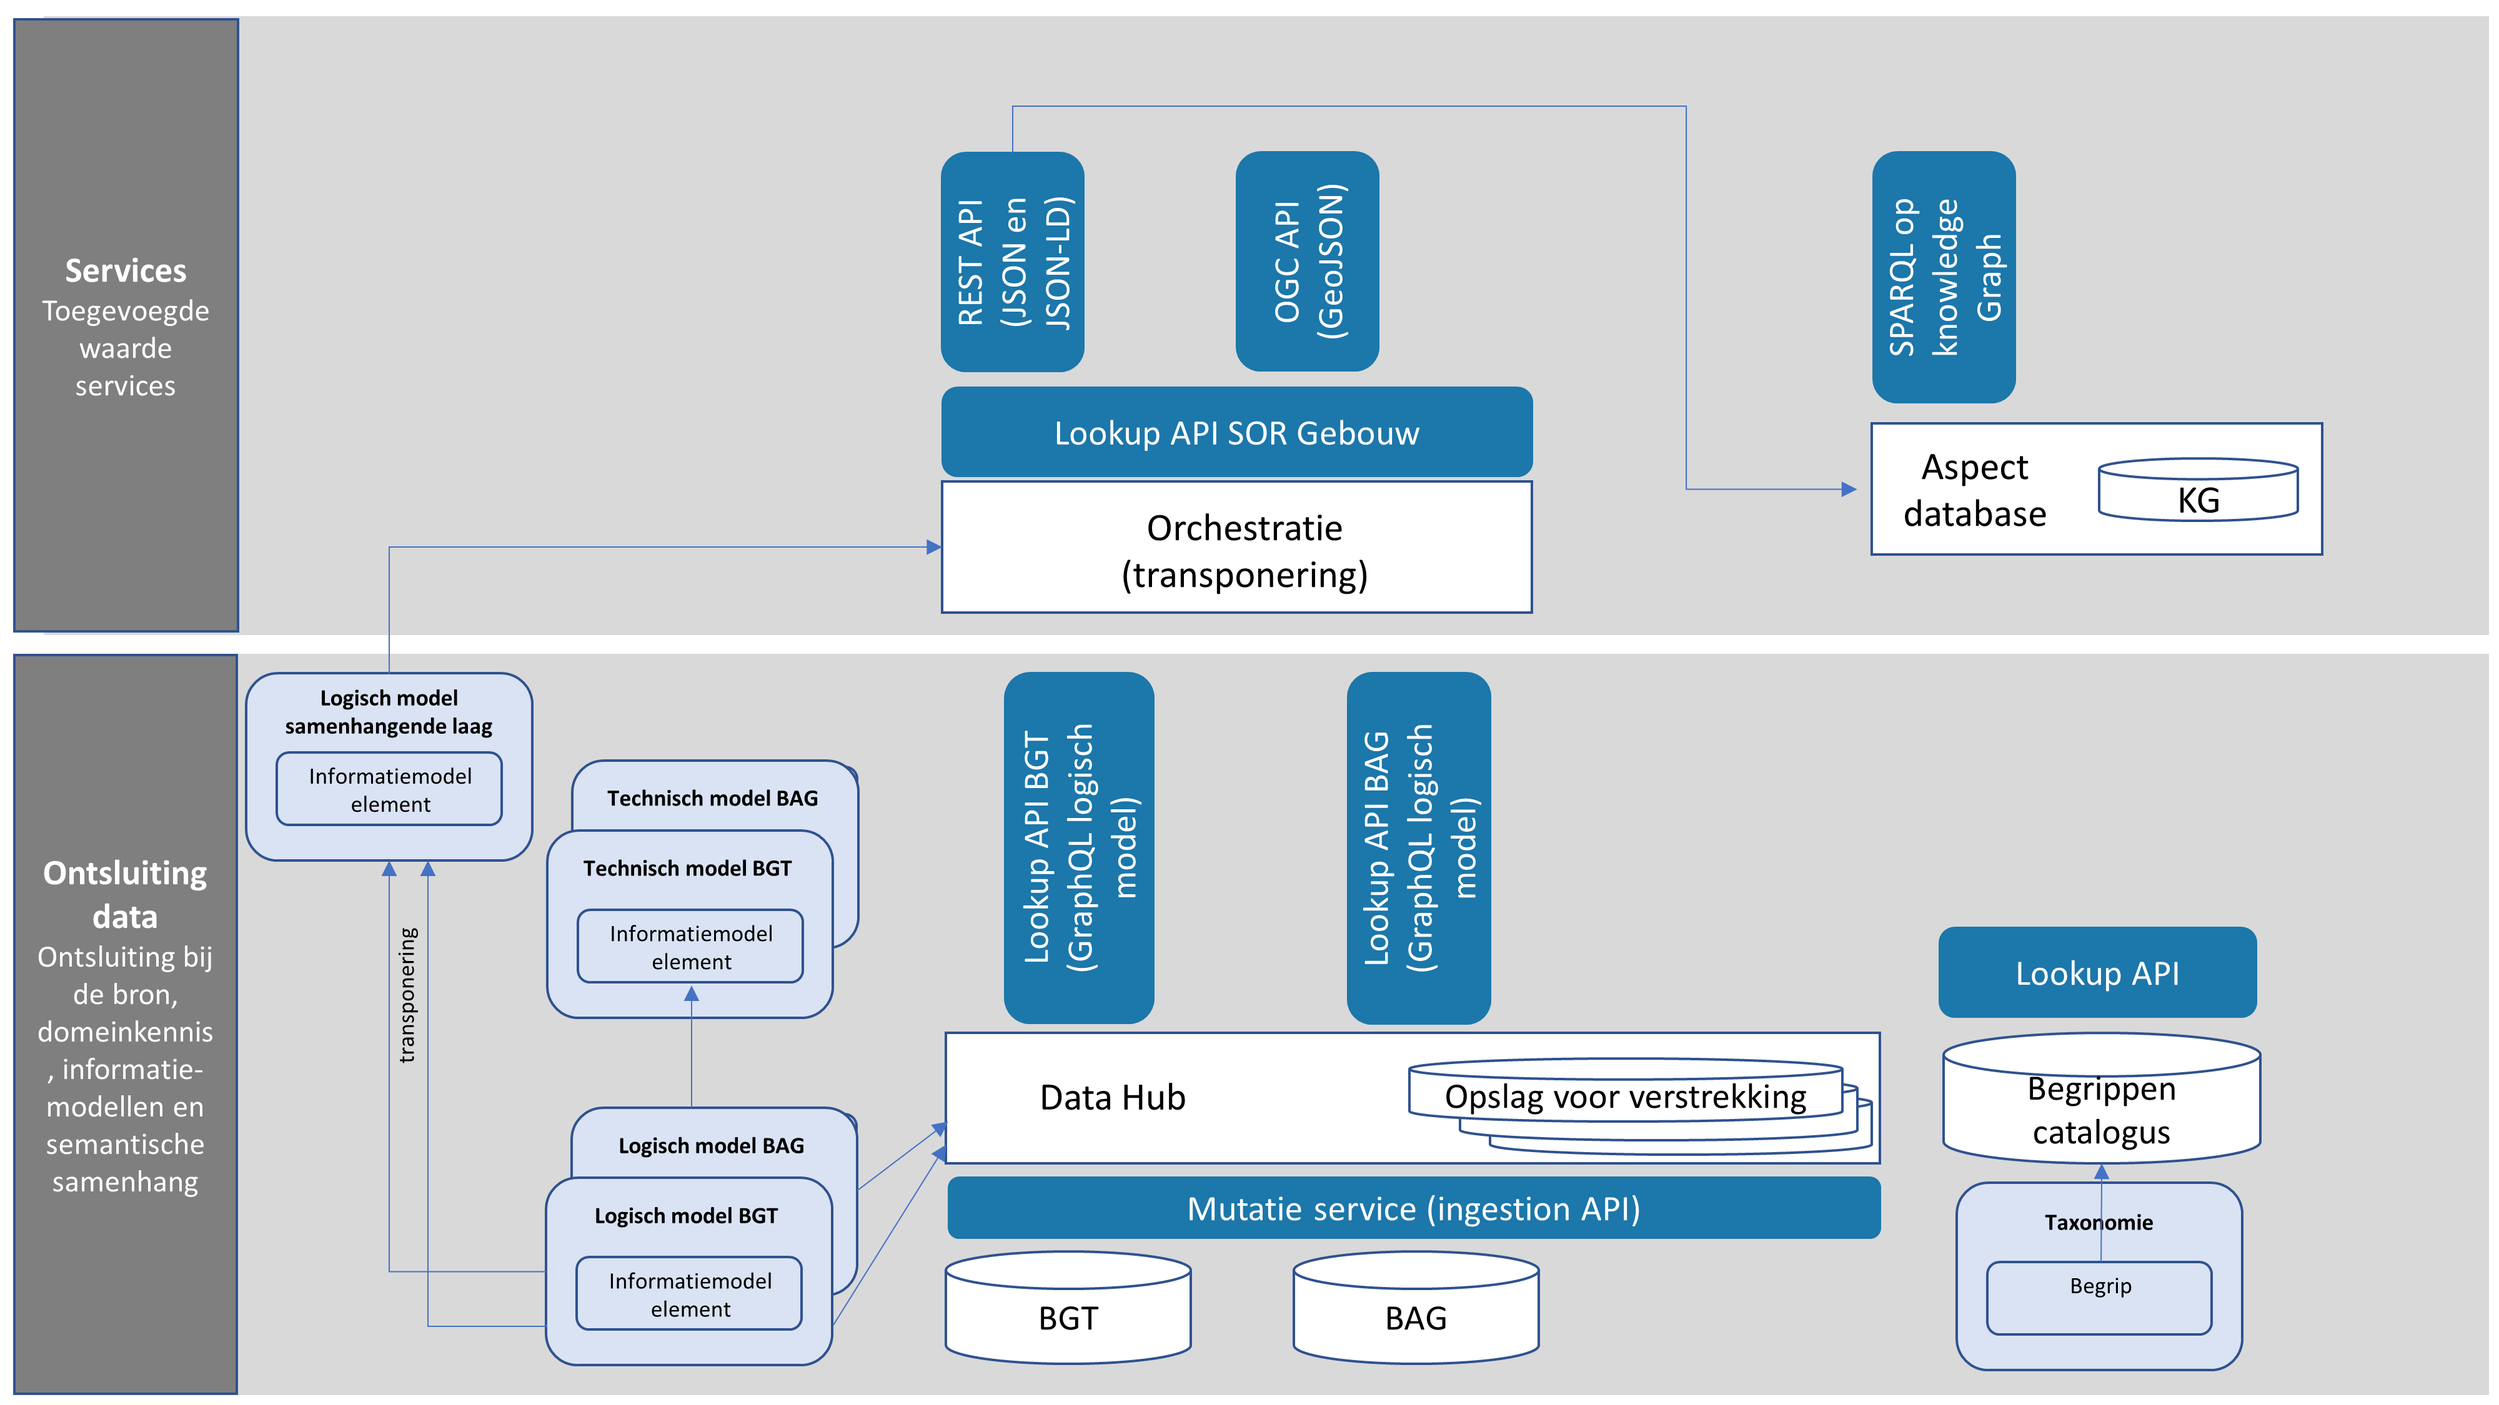
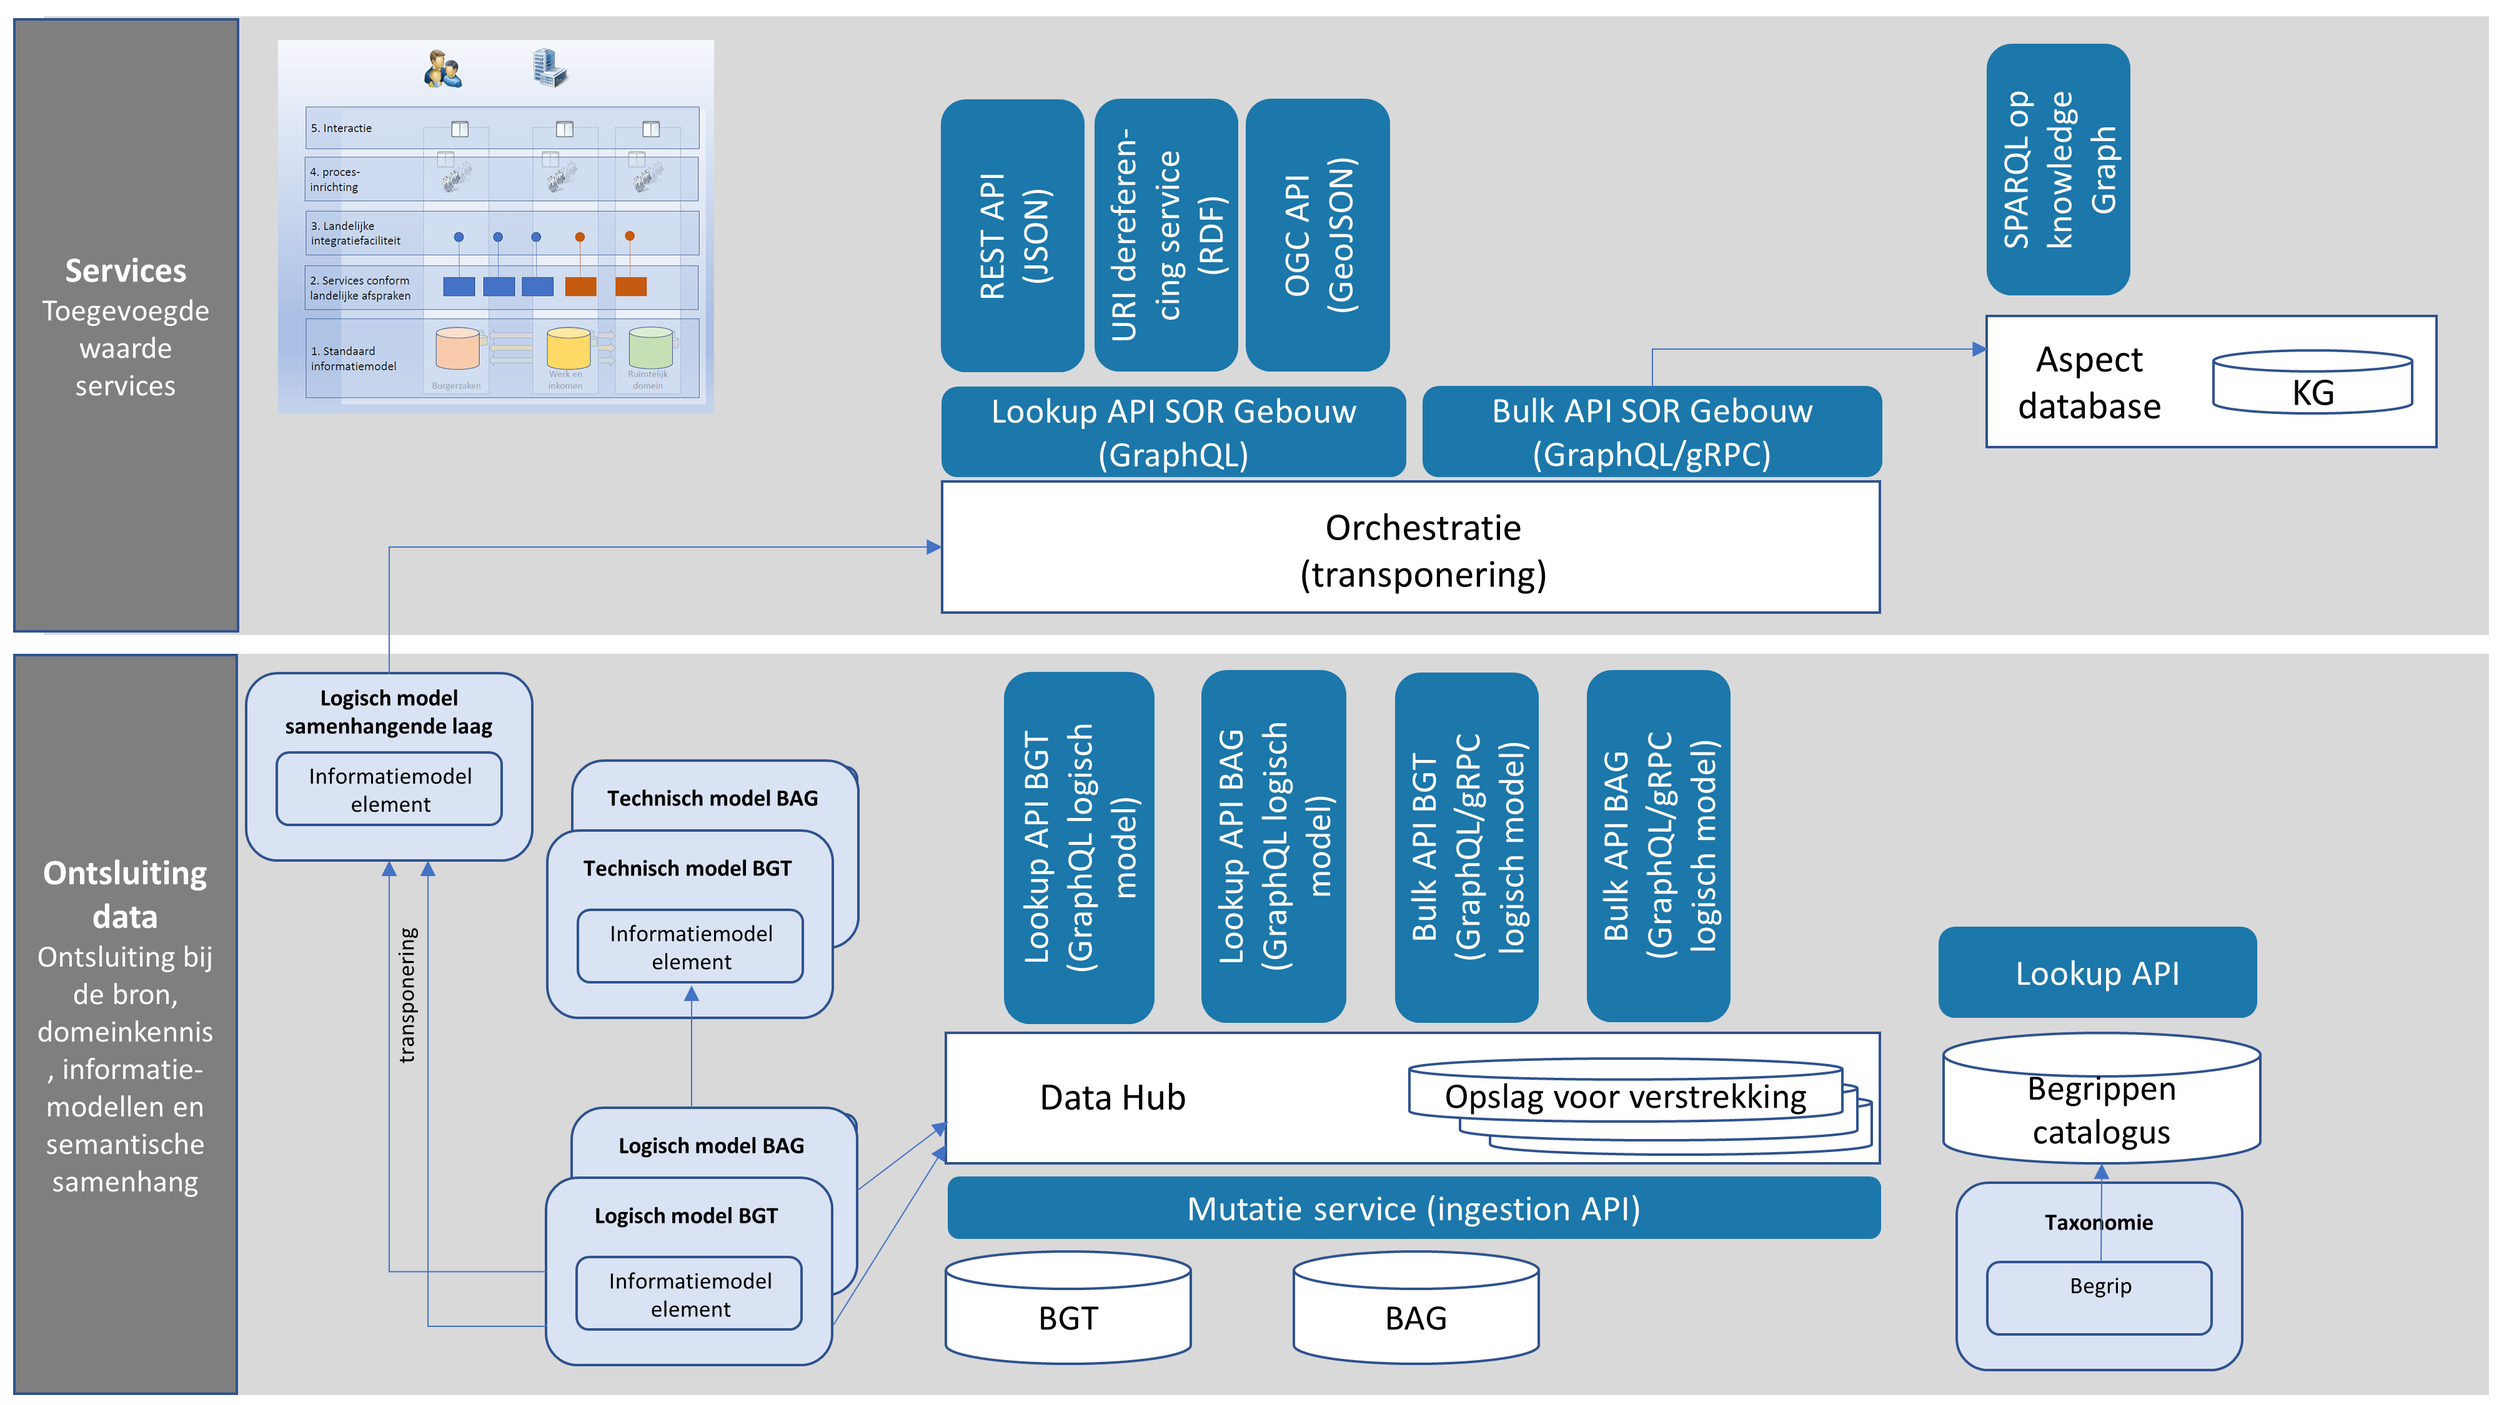
udpate implementatie hfd
work in progress

Changed region(s): [[0.375, 0.0311, 1.0, 0.4356], [0.4688, 0.4667, 0.7188, 0.7467], [0.0938, 0.0311, 0.3125, 0.3111]]

diff --git a/config.js b/config.js
@@ -237,6 +237,12 @@ var respecConfig =
       status:     "Consultatieversie",
       publisher:  "Geonovum",
 
+    }, 
+    "ADR": {
+      title: "API Design Rules (Nederlandse API Strategie IIa)",
+      href: "https://publicatie.centrumvoorstandaarden.nl/api/adr/",
+      status:     "Definitief",
+      publisher:  "Geonovum",
     }
   },
 

diff --git a/implementatie/implementatie_2022.md b/implementatie/implementatie_2022.md
@@ -14,7 +14,7 @@ In deze fase implementeren we het gemaakte SOR Gebouw MVP model en de transponer
     <figcaption>Architectuur van de implementatie</figcaption>
 </figure>
 
-De onderste laag van deze architectuur, ontsluiting bij de bron, is in de voorbereiding al gerealiseerd. In deze High 5 realiseren we de bovenste laag, Services, met daarin: 
+De onderste laag van deze architectuur, ontsluiting bij de bron, is in de voorbereiding al gerealiseerd door het Kadaster. In deze High-5 realiseren we de bovenste laag, Services, met daarin: 
 - Een Lookup API SOR Gebouw, conform het informatiemodel uit [](#imsor-gebouw-0). Deze API ondersteunt het gehele informatiemodel en regelt de orchestratie van BAG en BGT naar SOR. De REST API, URI Dereferencing service, en OGC Features API worden hier bovenop gebouwd. Het SPARQL Endpoint maakt gebruik van de URI Dereferencing service.
 - Een REST API die vragen over gebouwen ondersteunt en JSON teruggeeft. Deze API ondersteunt collecties met paginering, en heeft een endpoint voor individuele bevraging. Heeft ook CRS negotiation; de default is ETRS 89. Levert HAL JSON, compliant met NL API strategie. Geen JSON-LD (die zit wel in de URI dereferencing service). We maken gebruik van REST tooling om te laten zien dat het werkt. 
 - Een URI Dereferencing service die op basis van de URI identifier van een object de gegevens teruggeeft als RDF.
@@ -23,11 +23,90 @@ De onderste laag van deze architectuur, ontsluiting bij de bron, is in de voorbe
 
 Als proefgebied is voor Swifterbant (gemeente Dronten) gekozen. 
 
-<aside class="note">We beginnen met het objecttype Gebouw. Waarschijnlijk komen we niet aan de andere objecttypen die in scope zijn (Gebouwcomponent, Verblijfsobject, Open Bouwwerk en Installatie) toe. We hadden de andere objecttypen vooral om de energielabels en energieafgiftepunten te kunnen koppelen.</aside>
+## Scope beperking
+We zijn in de implementatiefase begonnen met een hele bescheiden scope met daarin alleen het objecttype `Gebouw`. Op dag 2 hebben we `Open Bouwwerk` hieraan toegevoegd en op dag 3 `Gebouwcomponent`. 
+
+Aan `Verblijfsobject` en `Installatie` zijn we niet toe gekomen. 
 
 ## Resultaten
 
-[TODO] Links / screenshots toevoegen van alles wat gemaakt is. 
+De meeste implementatie-onderdelen zijn gerealiseerd in een ontwikkelomgeving van het Kadaster en helaas op dit moment niet publiek beschikbaar. Wellicht gaat nog gekeken worden of dit (tijdelijk) toch mogelijk is. 
+
+Het Linked Data gedeelte is wel openbaar. 
+
+### Orchestratielaag en Lookup API SOR
+
+De orchestratielaag is het intelligente hart van de architectuur: wat we aan het begin van deze High-5 serie de 'semantische laag' noemden. De orchestratielaag regelt de aggregatie van één of meerdere onderliggende services. Deze services kunnen fysiek bij verschillende organisaties worden gehost zodat een federatief systeem mogelijk is. Als gebruiker van de Lookup API hoef je geen kennis te hebben van de onderliggende systemen, in dit geval de BAG en de BGT. 
+
+De Lookup API is onderdeel van deze orchestratielaag en zorgt voor ontkoppeling tussen onderliggende systemen en de uiteindelijke raadpleegvoorzieningen. Het resultaat van een zoekvraag door een gebruiker wordt door deze Lookup API samengevoegd uit antwoorden van de onderliggende systemen en met behulp van de transponeringsregels gemapped naar het IMSOR model. 
+
+Deze architectuur met transponering en orchestratie in het hart resulteert in een “virtuele” basisregistratie. Alles gebeurt on the fly, er is geen tussentijdse opslag. 
+
+De Lookup API heeft een [[GraphQL]] interface. Dit is een goed passende API stijl voor orchestratie, omdat het anders dan een gewone REST API, die een soort veelgestelde vragen voorziening is, een hoge mate van flexibiliteit biedt voor afnemers. Je kan zelf je vragen samenstellen en bepalen welke gegevens je in het resultaat wilt hebben. Ook is het mogelijk om delen van zoekvragen parallel te verwerken. 
+
+<figure id="graphql-screenshot">
+  <img src="media/2022-graphql-screenshot.png" alt="GraphQL screenshot">
+  <figcaption>GraphQL query en resultaat</figcaption>
+</figure>
+
+### Transponeringsregels
+
+De transponeringsregels die zijn opgesteld door inhoudelijke experts in de eerste en tweede High-5 sessie, zijn in de implementatiefase omgezet naar machineleesbare regel. Ze beschrijven de vertaling van brondatamodellen naar het doelmodel: het model van het samenhangende SOR gebouw. Deze transponeringsregels moet je zien als een soort configuratie. De orchestratielaag, de Lookup API is intelligent genoeg om deze regels te lezen, interpreteren en uitvoeren. De semantiek is zo gescheiden van de orchestratieprogrammatuur. 
+
+De transponering is voor `Gebouw`, `Open Bouwwerk`, en `Gebouw component` gerealiseerd. Voor de meeste attributen van deze objecttypen is een regel opgesteld die beschrijft waarmee het moet worden gevuld uit de bronregistraties. Een aantal attributen is om verschillende redenen niet getransponeerd. Het overzicht staat hieronder. 
+
+Het attribuut `status` dat in alle objecten voorkomt was een uitdaging om te transponeren. De SOR heeft een [nieuwe onderverdeling van levenscycli](https://docs.geostandaarden.nl/disgeo/emso/#levensfasen). Die hebben we als basis genomen, waardoor we gebruik konden maken van het [begrippenkader van de SOR](https://begrippen.geostandaarden.nl/sor-high5/nl/) (de experimentele variant voor de High-5). Het begrippenkader is uitgedrukt in SKOS [[skos-primer]], en dit biedt mogelijkheden om semantische relaties te leggen tussen begrippenkaders. Wat we dus gedaan hebben is de status begrippen uit het SOR begrippenkader verbinden met de overeenkomstige begrippen van BAG en BGT (die ook gepubliceerde begrippenkaders hebben) door middel van mapping relaties. 
+
+De orchestratielaag kon deze relaties tussen begrippen gebruiken voor de transponering en de Lookup API kan daardoor gegeven een SOR status een BAG status vinden of gegeven een BAG status een SOR status teruggeven.
+
+#### Gebouw transponering
+
+Alle BAG `Pand` objecten worden getransponeerd naar SOR `Gebouw`. Enkele attributen van BGT `Pand` worden erbij gezocht. BGT OVerigBouwwerk met `type` = `Schuur` of `Bunker` worden ook getransponeerd naar SOR Gebouw.
+
+Attribuut | Realisatie | Toelichting
+----------|------------|------------
+`type`    | [x]        | Deels geïmplementeerd vanwege scope. Veel typen moeten uit BRT of WOZ komen. Bij alle BAG panden is `nil` ingevuld. Bij overig bouwwerken uit de BGT is het type, `Schuur` of `Bunker` daarvandaan overgenomen.
+`aard`    | [ ]        | Buiten scope: BRT/WOZ
+`geometrie omtrek`     | [x] | Uit BAG
+`geometrie grondvlak`  | [x] | Uit BGT
+`naam`    | [ ]        | Buiten scope: BRT
+`oorspronkelijkBouwjaar` | [x] | Uit BAG
+`relatieveHoogteligging` | [x] | Uit BGT. Niet in EMSO aangemerkt als inhoud SOR, maar voor deze beproeving wel interessant om mee te nemen. Zolang we geen 3D hebben... 
+`status`  | [x]        | Uit BAG/BGT
+
+#### Open Bouwwerk transponering
+
+Dit objecttype komt uit de BGT en wordt als het gaat om een `OverigBouwwwerk` met attribuut `type` = `Open loods` of `Overkapping` getransponeerd naar SOR `Gebouw`. 
+
+Attribuut  | Realisatie | Toelichting
+-----------|------------|------------
+`type`     | [x]        | Uit BGT
+`geometrie`| [x]        | Uit BGT
+`isOnderdeelVan` | []   | geen mapping gespecificeerd. Dit gegeven zit niet in de brondata, er moet een afleidingsregel voor gemaakt worden.
+`relatieveHoogteligging` | [x] | Uit BGT. Niet in EMSO aangemerkt als inhoud SOR, maar voor deze beproeving wel interessant om mee te nemen. Zolang we geen 3D hebben... 
+`status`   | [x]        | Uit BGT
+
+#### Gebouwcomponent transponering
+De volgende objecten worden getransponeerd naar SOR `Gebouwcomponent`: 
+- Alle BGT `Gebouwinstallatie` objecten  met attribuut `type` = `Bordes`, `Luifel`, of `Toegangstrap`. 
+- Alle BGT `Kunstwerkdeel` objecten met attribuut `type` = `Perron` worden getransponeerd naar Gebouwcomponent.
+
+Attribuut  | Realisatie | Toelichting
+-----------|------------|------------
+`type`     | [x]        | Uit BGT
+`geometrie`| [x]        | Uit BGT
+`isOnderdeelVan` | []   | geen mapping gespecificeerd. Dit gegeven zit niet in de brondata, er moet een afleidingsregel voor gemaakt worden.
+`relatieveHoogteligging` | [x] | Uit BGT. Niet in EMSO aangemerkt als inhoud SOR, maar voor deze beproeving wel interessant om mee te nemen. Zolang we geen 3D hebben... 
+`status`   | [x]        | Uit BGT
+
+### REST API
+De REST API is een API conform de Nederlandse API strategie [[ADR]]. 
+
+### OGC API Features
+
+### URI Dereferencing Service
+
+### SPARQL endpoint
 
 ## Bevindingen
 
@@ -43,6 +122,13 @@ De bevindingen zijn gegroepeerd op onderwerp.
 We introduceren nu geen SOR identificatie maar gebruiken hiervoor de identificatie uit de bestaande bronregistraties. Omdat er zowel BAG als BGT panden zijn, die samen in een Gebouw object moeten gevat worden, moest er gekozen worden welke identificatie leidend is. Dit is voor ons het BAG ID geworden. 
 
 Er zijn ook SOR gebouwen die geen BAG id hebben, namelijk de BGT `OverigBouwwerk` objecten van het type `Bunker` en `Schuur`. Voor deze SOR gebouwen wordt het BGT id overgenomen. 
+
+<aside class="issue">Bij Orchestratie uitdagingen in de webinar is gezegd: 
+
+> Identificatie bevat geen type details
+
+Nagaan wat hiermee werd bedoeld. Klinkt als een bevinding. 
+</aside>
 
 #### Ontbrekende gegevens voor bunkers en schuren
 Voor bunkers en schuren uit de BGT, die geen corresponderend BAG pand hebben maar wel SOR Gebouw zijn, lopen we tegen het issue aan dat er geen bouwjaar bekend is en dat er geen BAG geometrie is. Deze gegevens moeten dus optioneel of voidable worden in het informatiemodel. In MIM termen betekent voidable: we gebruiken dan `mogelijk geen waarde = ja` in het informatiemodel. 
@@ -119,6 +205,12 @@ Uiteraard wordt, zodra er meer tijd is, zo'n bulkbevragingsvoorziening wel gerea
 Deze bevindingen gaan over de Lookup APIs die zowel in de onderste als de bovenste laag (de SOR laag) voorkomen. 
 
 #### Gestandaardiseerd GraphQL profiel
+
+Efficiënte orchestratie vereist uniformiteit in Lookup API’s
+Standaardisatie van interface elementen
+Toegangspatronen t.b.v. orchestratie (o.a. batching)
+Advies: Standaard API profiel voor Lookup API’s
+
 De Lookup API SOR, Lookup API BGT en Lookup API BAG hebben om diverse redenen een GraphQL endpoint. GraphQL is een low level standaard waarmee je alle kanten op kunt, en er is nog geen gestandaardiseerd profiel voor, dat beschrijft hoe je bijvoorbeeld omgaat met naamgeving, filteren, paginering, sortering etc. zoals de API Design Rules (uit de NL API strategie) dat doen voor REST APIs. Dit heeft als consequentie voor de afnemende APIs dat er specifieke code moeten worden geschreven om de data te verkrijgen en om te vormen (wellicht is bv. het uitfilteren van attributen en 'plat slaan' van geneste structuur nodig). Ter vergelijking: voor een OGC API Features is dit bijvoorbeeld niet nodig als de data al in een Postgres database of een Geopackage bestand zit in de juiste structuur. De ETL stappen zijn dan al gedaan; in de huidige situatie wordt er in feite nog ETL gedaan IN de API op het laatste moment.
 
 Het schrijven van deze specifieke code is meer werk ten opzichte van het gebruik van een standaard GIS opslagmethode en blijkt bovendien ook wat lastiger dan verwacht. Je krijgt ook een beheerslast: als er in de Lookup API gegevens bij komen, moet er in de specifieke code ook weer iets aangepast worden met betrekking tot het wel of niet doorleveren van die gegevens. Met andere woorden: er is een mapping nodig van de Lookup API naar de afnemende APIs, die beheerd moet worden. 
@@ -137,7 +229,7 @@ Als een gebruiker aan de SOR API een collectie van objecten opvraagt, moet de Lo
 Dit is vergelijkbaar met de constatering vanuit het SPARQL endpoint dat een bulkbevraging nodig was. Dit geldt dus voor zowel de Lookup API SOR als die van de BAG en BGT in de laag Ontsluiting data.
 
 #### Performance en andere non-functionals
-Performance van de APIs is een belangrijk aspect, dat samenhangt met het eerder genoemnde query planning. Indien mogelijk kunnen we bijvoorbeeld onderdelen van een query tegelijktijdig uitvoeren om zo performance te verbeteren. 
+Performance van de APIs is een belangrijk aspect, dat samenhangt met het eerder genoemde query planning. Indien mogelijk kunnen we bijvoorbeeld onderdelen van een query tegelijktijdig uitvoeren om zo performance te verbeteren. 
 
 Cruciaal is dat elk van de services die data leveren voor de SOR op zich al goede performance moeten hebben, anders kunnen SOR services ook nooit snel worden. 
 
